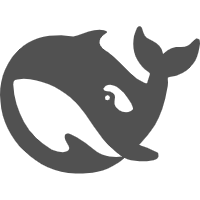
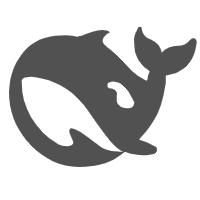
修复了ai助手和图书馆按钮大小变化的问题

diff --git a/src/main/java/Client/MainFrame.java b/src/main/java/Client/MainFrame.java
@@ -176,12 +176,11 @@ public class MainFrame {
         Button storeBtn = new Button();
         Button aiAssistBtn = new Button();
         Button libraryBtn = new Button();
-        Button reportLossBtn = new Button();
         Button lostCardAdminBtn = new Button();
 
         // 统一尺寸与显示
         List<Button> allBtns = Arrays.asList(stuManageBtn, courseMgmtBtn, timetableBtn, courseSelectBtn,
-                myClassroomBtn, financeBtn, storeBtn, aiAssistBtn, libraryBtn, reportLossBtn, lostCardAdminBtn);
+                myClassroomBtn, financeBtn, storeBtn, aiAssistBtn, libraryBtn, lostCardAdminBtn);
         for (Button b : allBtns) {
             b.setPrefWidth(40); b.setPrefHeight(40);
             b.setMinWidth(40); b.setMinHeight(40);
@@ -228,7 +227,6 @@ public class MainFrame {
         resetButtonStyle(aiAssistBtn, normalIcon.get(aiAssistBtn));
         resetButtonStyle(libraryBtn, normalIcon.get(libraryBtn));
         resetButtonStyle(lostCardAdminBtn, normalIcon.get(lostCardAdminBtn));
-        resetButtonStyle(reportLossBtn, normalIcon.get(reportLossBtn));
 
         // ===== 简化事件处理：统一通过 mapping 切换图标与样式 =====
         stuManageBtn.setOnAction(e -> {
@@ -324,8 +322,6 @@ public class MainFrame {
         navButtons.add(storeBtn);   // 校园商店
         navButtons.add(aiAssistBtn); // AI 助手
         navButtons.add(libraryBtn);  // 新增：图书馆
-        navButtons.add(lostCardAdminBtn);
-        navButtons.add(reportLossBtn); // 新增：一卡通挂失按钮
         navButtons.add(lostCardAdminBtn); // 新增：挂失管理按钮
 
         // 为每个按钮添加图标与保存原文案
@@ -338,6 +334,7 @@ public class MainFrame {
         attachIconAndRememberText(storeBtn, iconStore);
         attachIconAndRememberText(aiAssistBtn, iconAI);
         attachIconAndRememberText(libraryBtn, iconLibrary); // 新增：图书馆图标
+        attachIconAndRememberText(lostCardAdminBtn, iconLostCardAdmin);
 
         // 为每个功能区按钮设置右侧 tooltip
         setRightTooltip(stuManageBtn, "学籍管理");
@@ -349,6 +346,7 @@ public class MainFrame {
         setRightTooltip(storeBtn, "校园商店");
         setRightTooltip(aiAssistBtn, "AI助手");
         setRightTooltip(libraryBtn, "图书管理"); // 新增：图书馆提示
+        setRightTooltip(lostCardAdminBtn, "挂失管理");
 
         // 中心内容容器（StackPane，便于后续叠加遮罩/弹层）
         centerContainer = new StackPane();
@@ -531,6 +529,43 @@ public class MainFrame {
                 setCenterContent(new LibraryMainPanel(cardNumber));
             });
 
+
+            // 管理员-挂失管理
+            lostCardAdminBtn.setOnAction(e -> {
+                if (currentSelectedButton == lostCardAdminBtn) return;
+                if (currentSelectedButton != null) resetButtonStyle(currentSelectedButton, normalIcon.get(currentSelectedButton));
+                setSelectedButtonStyle(lostCardAdminBtn, selectedIcon.get(lostCardAdminBtn));
+                currentSelectedButton = lostCardAdminBtn;
+                setCenterContent(new Client.finance.LostCardAdminPanel());
+            });
+
+            // ===== 修改：使用透明 Region 占据剩余垂直空间（去除占位文字与背景） =====
+            Region functionSpacer = new Region();
+            VBox.setVgrow(functionSpacer, Priority.ALWAYS);
+            leftBar.getChildren().add(functionSpacer);
+
+
+            // 新增：一卡通挂失按钮添加
+            // 左下角退出登录按钮（保持原样式与逻辑）
+            Button reportLossBtn = new Button();
+            reportLossBtn.setPrefWidth(40);
+            reportLossBtn.setPrefHeight(40);
+            reportLossBtn.setMinWidth(40);
+            reportLossBtn.setMinHeight(40);
+            reportLossBtn.setMaxWidth(40);
+            reportLossBtn.setMaxHeight(40);
+            reportLossBtn.setContentDisplay(ContentDisplay.GRAPHIC_ONLY);
+            reportLossBtn.setAlignment(Pos.CENTER);
+            Image reportLossIcon = new Image(Objects.requireNonNull(MainFrame.class.getResourceAsStream("/Image/functionbar/挂失.png")));
+            // 使用统一方法设置图标（带固定占位 wrapper）
+            attachIconAndRememberText(reportLossBtn, reportLossIcon);
+            reportLossBtn.setStyle("-fx-background-color: " + SIDEBAR_COLOR + "; -fx-effect: none; -fx-font-size: 15px; -fx-text-fill: " + TEXT_COLOR + ";");
+            reportLossBtn.setOnMouseEntered(e -> setButtonHoverShadow(reportLossBtn));
+            reportLossBtn.setOnMouseExited(e -> reportLossBtn.setStyle("-fx-background-color: " + SIDEBAR_COLOR + "; -fx-effect: none; -fx-font-size: 15px; -fx-text-fill: " + TEXT_COLOR + ";"));
+            reportLossBtn.setOnAction(e -> LogoutHandler.handleLogout(stage));
+            setRightTooltip(reportLossBtn, "退出登录");
+            leftBar.getChildren().add(reportLossBtn);
+
             // 新增：一卡通挂失事件
             reportLossBtn.setOnAction(e -> {
                 Alert alert = new Alert(Alert.AlertType.CONFIRMATION);
@@ -564,21 +599,7 @@ public class MainFrame {
                 }
             });
 
-            // 管理员-挂失管理
-            lostCardAdminBtn.setOnAction(e -> {
-                if (currentSelectedButton == lostCardAdminBtn) return;
-                if (currentSelectedButton != null) resetButtonStyle(currentSelectedButton, normalIcon.get(currentSelectedButton));
-                setSelectedButtonStyle(lostCardAdminBtn, selectedIcon.get(lostCardAdminBtn));
-                currentSelectedButton = lostCardAdminBtn;
-                setCenterContent(new Client.finance.LostCardAdminPanel());
-            });
-
-            // ===== 修改：使用透明 Region 占据剩余垂直空间（去除占位文字与背景） =====
-            Region functionSpacer = new Region();
-            VBox.setVgrow(functionSpacer, Priority.ALWAYS);
-            leftBar.getChildren().add(functionSpacer);
-
-            // 新增：左下角"修改��码"按钮
+            // 新增：左下角"修改密码"按钮
             Button changePwdSidebarBtn = new Button();
             changePwdSidebarBtn.setPrefWidth(40);
             changePwdSidebarBtn.setPrefHeight(40);
@@ -590,11 +611,8 @@ public class MainFrame {
             changePwdSidebarBtn.setAlignment(Pos.CENTER);
             // 设置图标
             Image pwdIcon = new Image(Objects.requireNonNull(MainFrame.class.getResourceAsStream("/Image/functionbar/修改密码.png")));
-            ImageView pwdView = new ImageView(pwdIcon);
-            pwdView.setFitWidth(28);
-            pwdView.setFitHeight(28);
-            pwdView.setPreserveRatio(true);
-            changePwdSidebarBtn.setGraphic(pwdView);
+            // 使用统一方法设置图标（带固定占位 wrapper）
+            attachIconAndRememberText(changePwdSidebarBtn, pwdIcon);
             // 样式与功能区按钮一致
             changePwdSidebarBtn.setStyle("-fx-background-color: " + SIDEBAR_COLOR + "; -fx-effect: none; -fx-font-size: 15px; -fx-text-fill: " + TEXT_COLOR + ";");
             // 悬停阴影
@@ -604,9 +622,6 @@ public class MainFrame {
             changePwdSidebarBtn.setOnAction(e -> new LoginClientFX().openAsRecovery(stage, cardNumber));
             // Tooltip
             setRightTooltip(changePwdSidebarBtn, "修改密码");
-            // 新增：一卡通挂失按钮添加
-            leftBar.getChildren().add(reportLossBtn);
-
             // 添加到左侧底部（退出登录按钮之上）
             leftBar.getChildren().add(changePwdSidebarBtn);
 
@@ -621,11 +636,8 @@ public class MainFrame {
             logoutSidebarBtn.setContentDisplay(ContentDisplay.GRAPHIC_ONLY);
             logoutSidebarBtn.setAlignment(Pos.CENTER);
             Image logoutIcon = new Image(Objects.requireNonNull(MainFrame.class.getResourceAsStream("/Image/functionbar/退出.png")));
-            ImageView logoutView = new ImageView(logoutIcon);
-            logoutView.setFitWidth(28);
-            logoutView.setFitHeight(28);
-            logoutView.setPreserveRatio(true);
-            logoutSidebarBtn.setGraphic(logoutView);
+            // 使用统一方法设置图标（带固定占位 wrapper）
+            attachIconAndRememberText(logoutSidebarBtn, logoutIcon);
             logoutSidebarBtn.setStyle("-fx-background-color: " + SIDEBAR_COLOR + "; -fx-effect: none; -fx-font-size: 15px; -fx-text-fill: " + TEXT_COLOR + ";");
             logoutSidebarBtn.setOnMouseEntered(e -> setButtonHoverShadow(logoutSidebarBtn));
             logoutSidebarBtn.setOnMouseExited(e -> logoutSidebarBtn.setStyle("-fx-background-color: " + SIDEBAR_COLOR + "; -fx-effect: none; -fx-font-size: 15px; -fx-text-fill: " + TEXT_COLOR + ";"));
@@ -920,7 +932,14 @@ public class MainFrame {
         iv.setFitWidth(28); // 图标宽度扩大
         iv.setFitHeight(28); // 图标高度扩大
         iv.setPreserveRatio(true);
-        btn.setGraphic(iv);
+        iv.setSmooth(true);
+        // 使用固定尺寸的容器包裹 ImageView，保证不同图片（有透明边距或实际像素不同）时图标占位一致
+        StackPane graphicWrapper = new StackPane(iv);
+        graphicWrapper.setPrefSize(28, 28);
+        graphicWrapper.setMinSize(28, 28);
+        graphicWrapper.setMaxSize(28, 28);
+        graphicWrapper.setAlignment(Pos.CENTER);
+        btn.setGraphic(graphicWrapper);
         btn.setGraphicTextGap(8);
     }
 
@@ -1126,4 +1145,3 @@ public class MainFrame {
         btn.setTooltip(tip);
     }
 }
-
